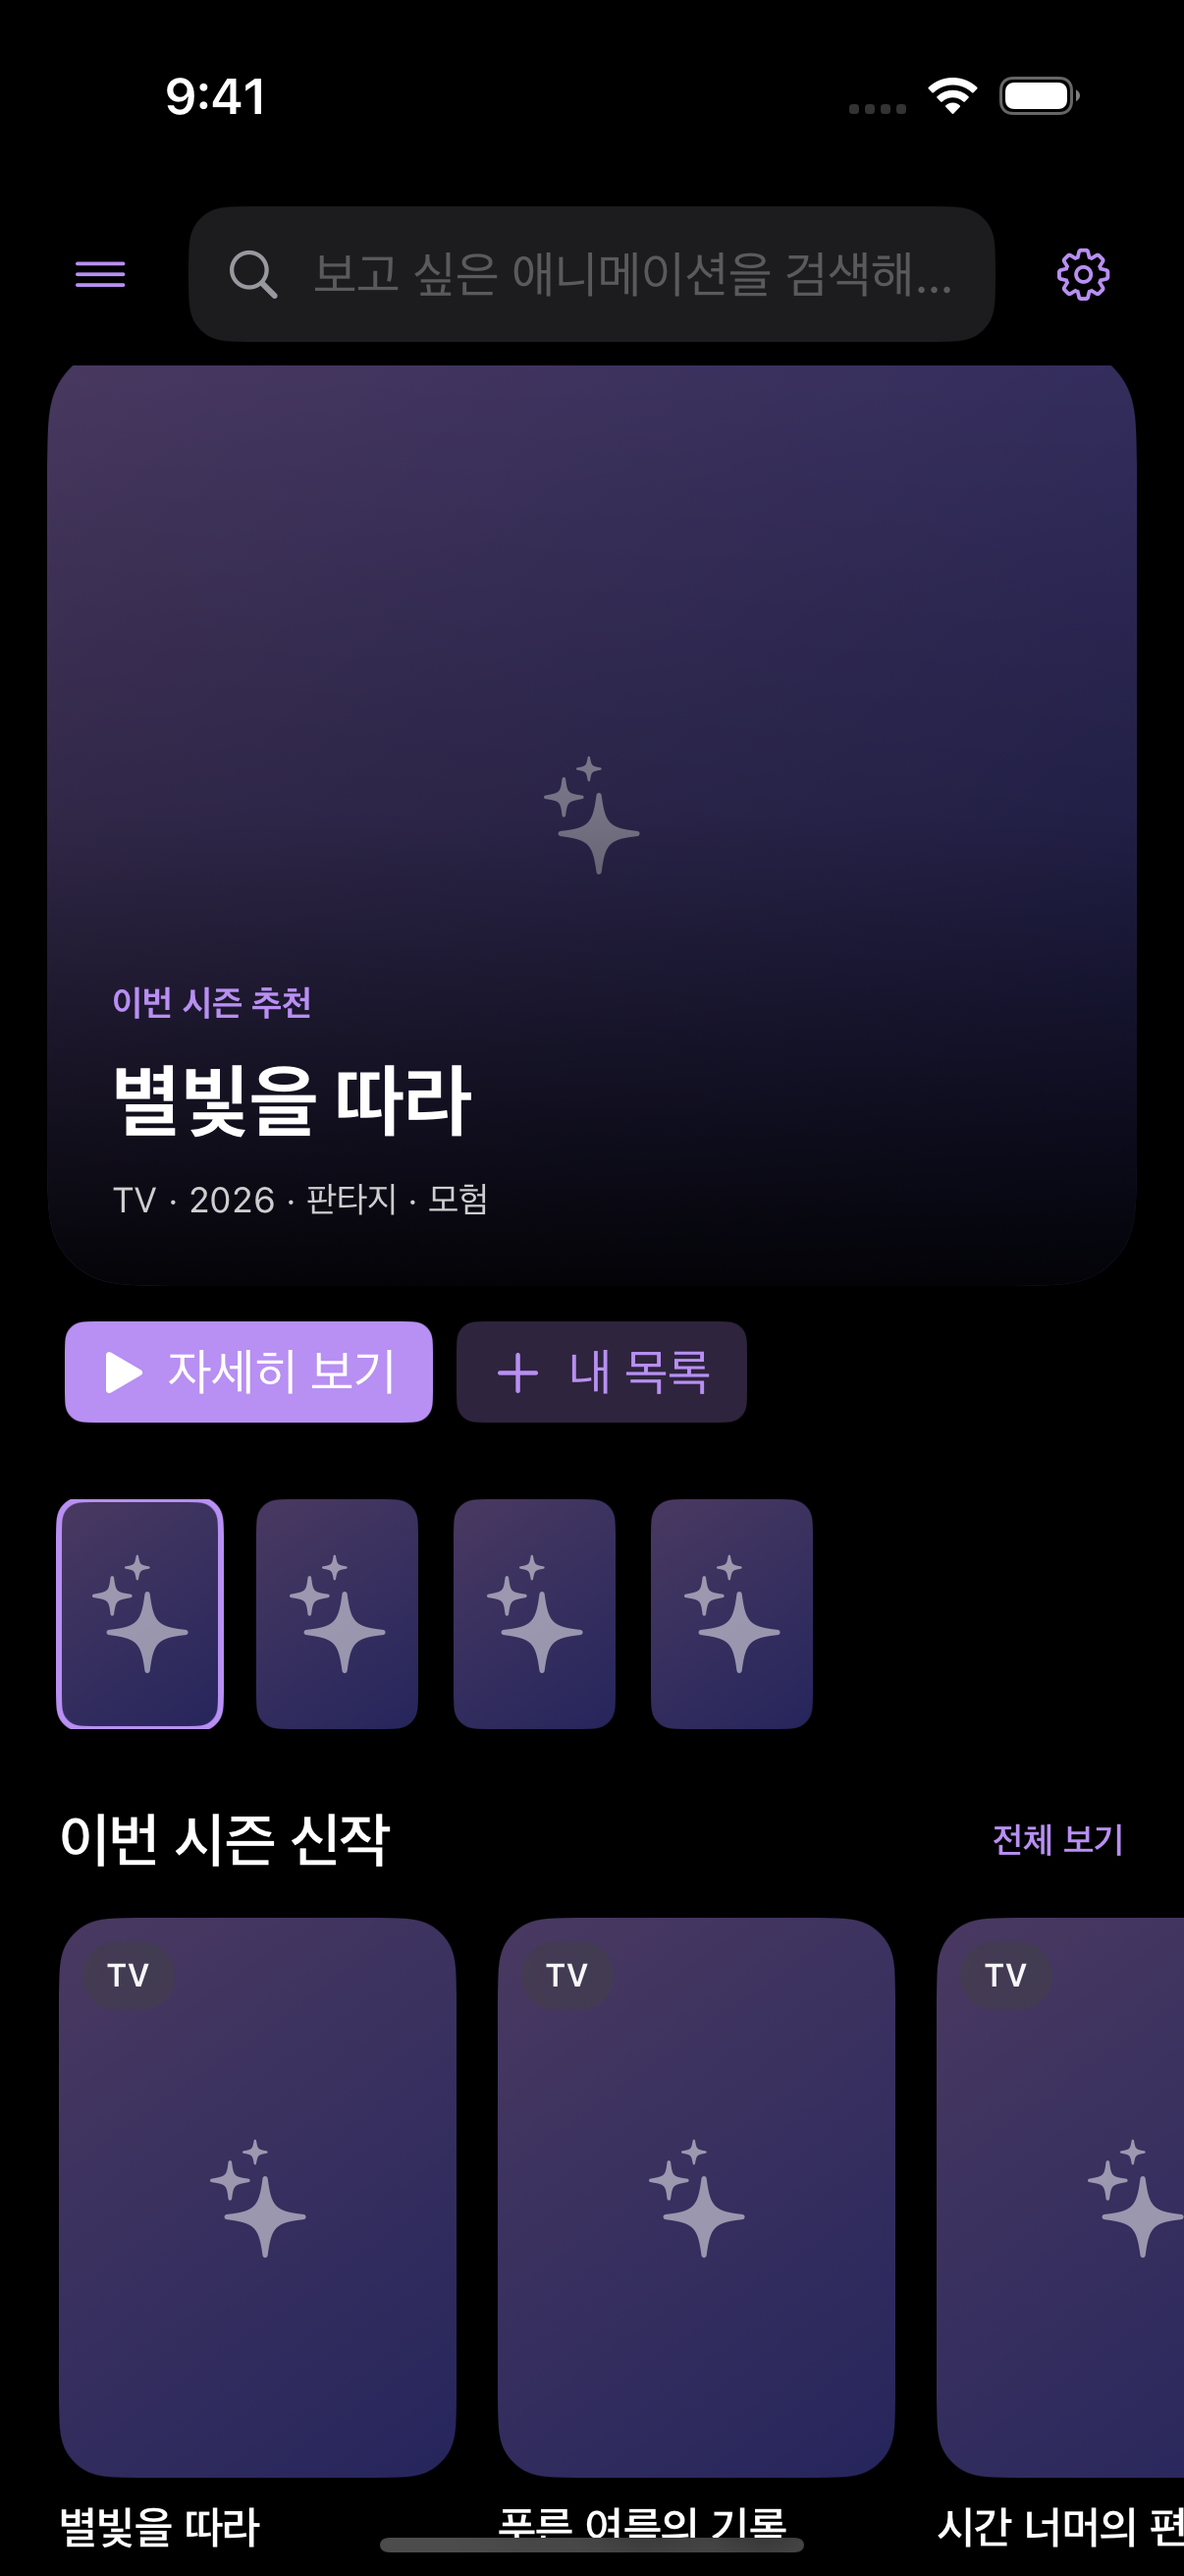
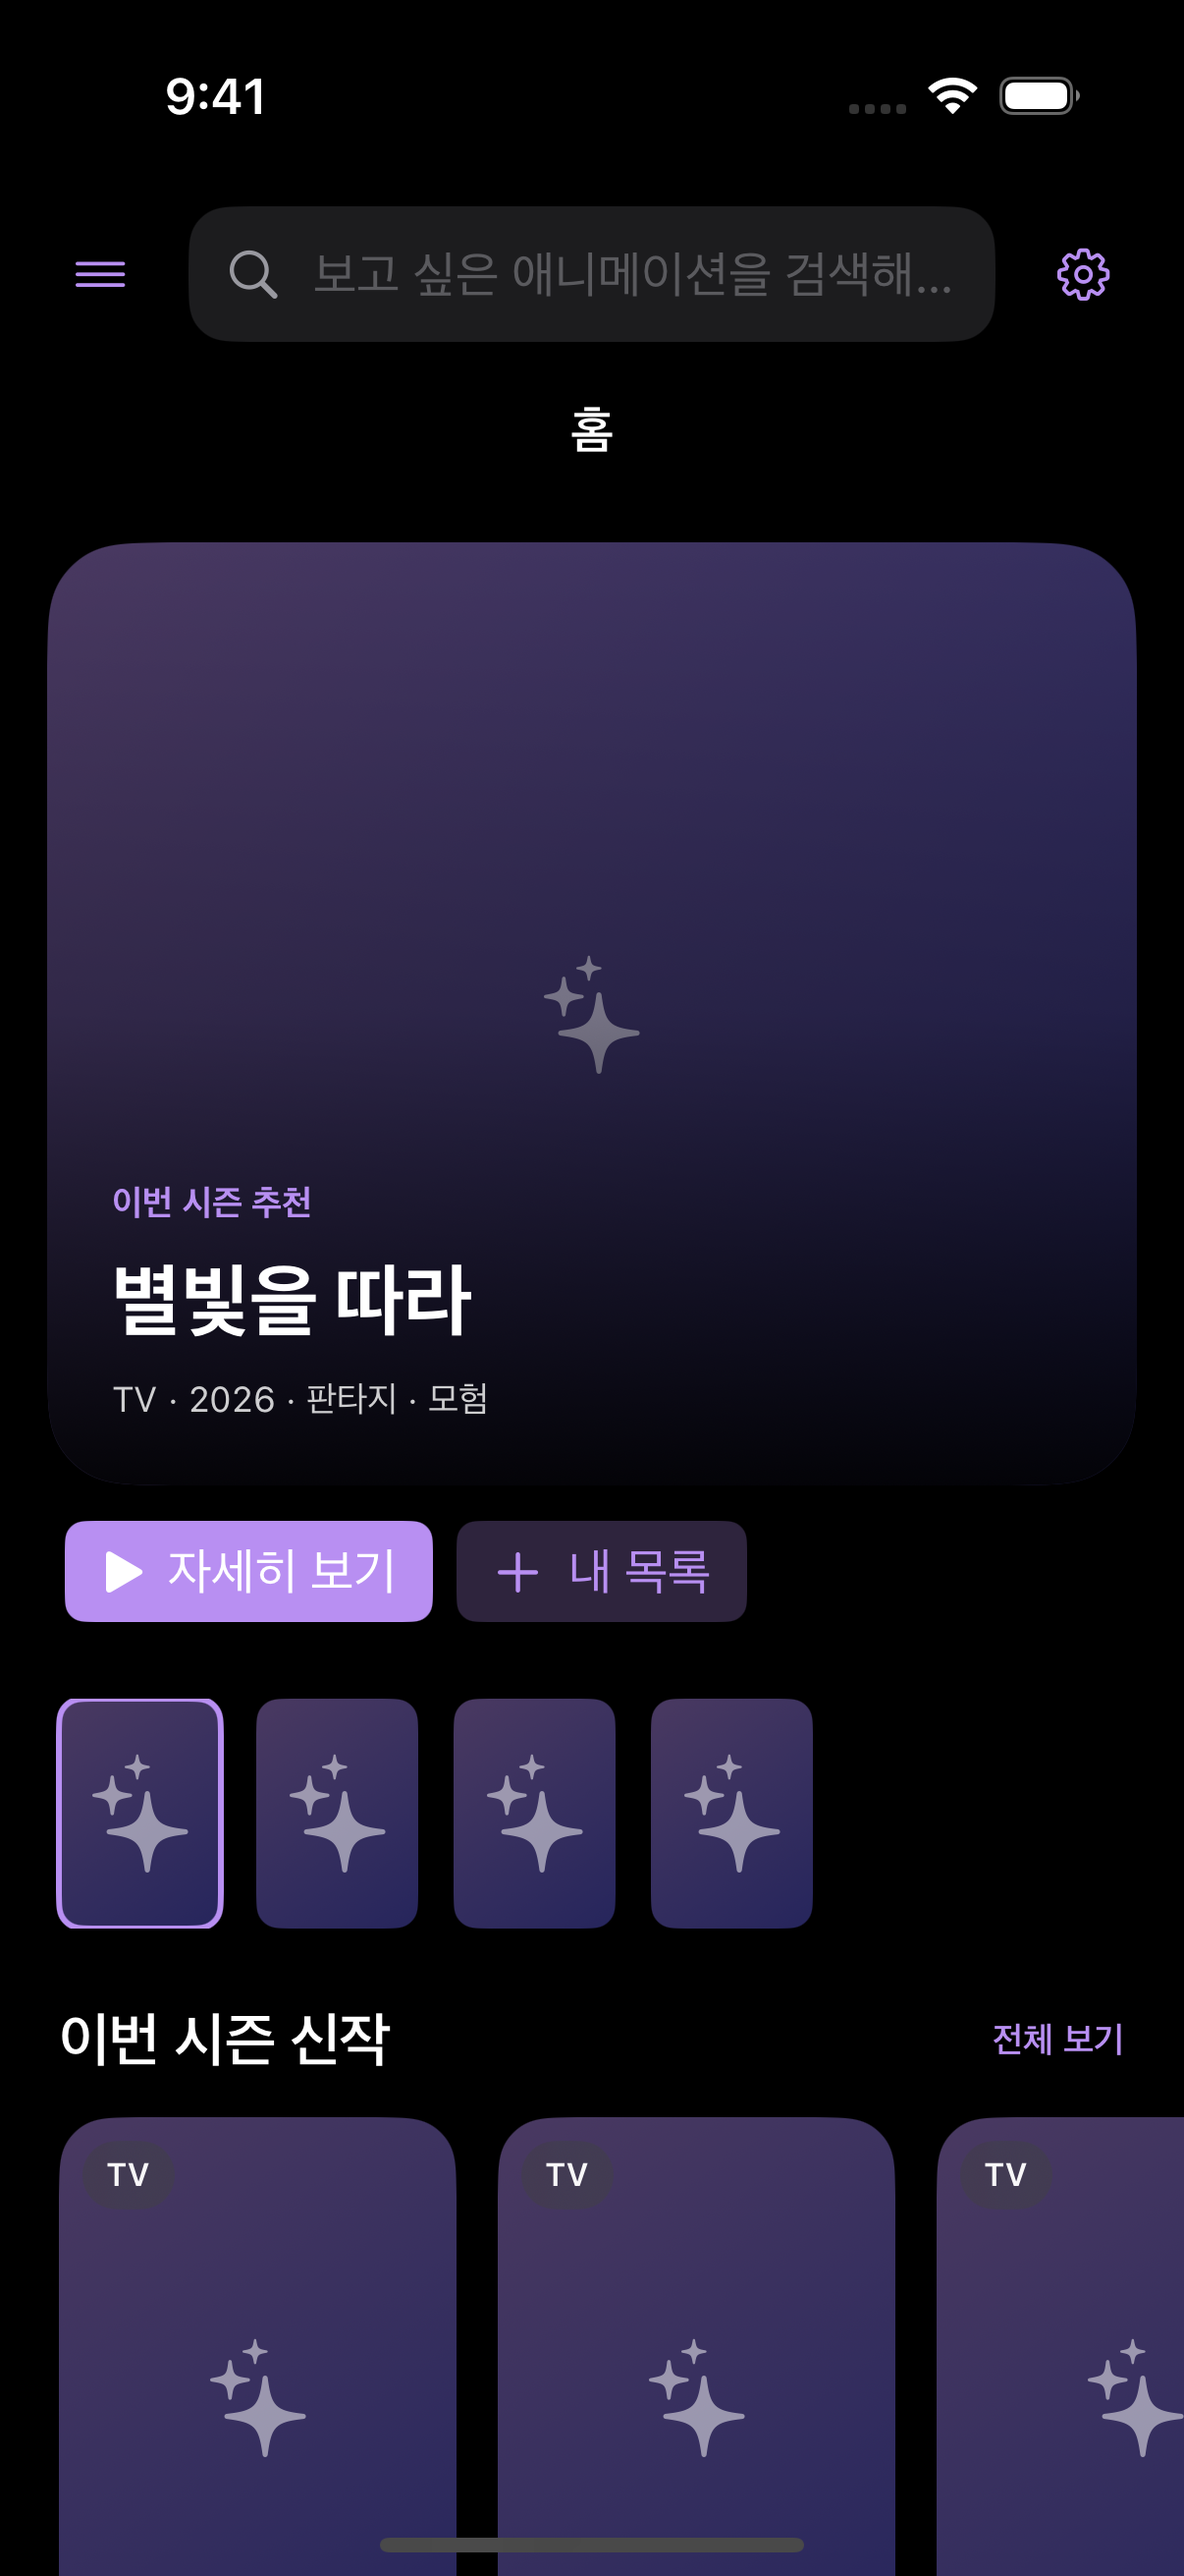
Document build 35 navigation and player verification with refreshed captures

diff --git a/README.md b/README.md
@@ -50,8 +50,13 @@ PC 창 버튼·설치 프로그램·CUDA·외장 폴더 직접 지정은 iOS의 
 <p align="center">
   <img src="docs/screenshots/workspace-ipad-dark.png" width="700" alt="iPad 홈">
 </p>
+<p align="center">
+  <img src="docs/screenshots/player-settings-ipad-dark.png" width="700" alt="iPad 플레이어 설정 패널">
+</p>
 
-캡처는 [빌드 34 검증](https://github.com/whispelyn-byte/LilacAnime-ios/actions/runs/37860678497)에서 시뮬레이터와 예시 데이터로 생성했습니다. 실제 작품 이미지나 영상 재생 캡처가 아닙니다. 플레이어는 가로 전체 화면으로 표시되며, 원본 디스플레이 캡처의 방향을 유지했습니다.
+iPad 화면 모드 예시: [맞춤](docs/screenshots/player-fit-contain-ipad-dark.png) · [채움](docs/screenshots/player-fit-cover-ipad-dark.png) · [늘림](docs/screenshots/player-fit-stretch-ipad-dark.png).
+
+캡처는 [빌드 35 검증](https://github.com/whispelyn-byte/LilacAnime-ios/actions/runs/37881121352)에서 시뮬레이터와 예시 데이터로 생성했습니다. 실제 작품 이미지나 영상 재생 캡처가 아닙니다. 플레이어는 가로 전체 화면으로 표시되며, 원본 디스플레이 캡처의 방향을 유지했습니다.
 
 ## 설치
 
@@ -89,12 +94,14 @@ https://github.com/whispelyn-byte/LilacAnime-ios/releases/latest/download/source
 ## 자막·모델·다운로드
 
 - 재생 화면의 자막 메뉴에서 제작자/파일을 선택하고, 회차에 저장한 원본·번역 자막을 다시 불러오거나 공유합니다. **다시 번역**은 부분 번역 캐시를 새로 만들고 선택한 제공자로 다시 처리합니다.
-- **설정 → 자막 자동 번역 → 로컬 GGUF 모델**에서 프리셋을 받거나 파일을 가져옵니다. 접근 제한이 있는 Hugging Face 저장소는 해당 모델의 이용 조건 동의와 사용자 토큰이 필요합니다. 대형 모델은 기기 메모리에 따라 로드하지 못할 수 있습니다.
+- **설정 → 자막 자동 번역 → 로컬 GGUF 모델**에서 프리셋을 받거나 파일을 가져옵니다. 위쪽 뒤로가기 버튼으로 번역 설정에 돌아가며, 홈·다른 메뉴를 누르면 모델 화면도 닫힙니다. 접근 제한이 있는 Hugging Face 저장소는 해당 모델의 이용 조건 동의와 사용자 토큰이 필요합니다. 대형 모델은 기기 메모리에 따라 로드하지 못할 수 있습니다.
 - **다운로드 → 다운로드 폴더 내보내기·가져오기**에서 완료한 회차를 파일 앱의 폴더로 옮깁니다. 폴더에는 영상, 자막, 폰트, OP/ED 정보와 index.json이 포함됩니다. 기존 앱 내부 파일은 내보낼 때 유지합니다.
 - **설정 → 자막 → 저장 자막·캐시 관리**에서 저장한 자막을 보존하고 임시/번역 캐시를 정리하거나 전체 자막을 명시적으로 삭제합니다.
 - **설정 → 업데이트 · 정보**에서 새 IPA를 받고 공유할 수 있습니다. 설치와 서명은 SideStore에서 진행합니다.
 
 ## 플레이어 사용
+
+새 설치는 건너뛰기 버튼 표시가 켜져 있고 OP/ED 자동 건너뛰기는 꺼져 있습니다. 이미 저장한 설정은 유지하며, 플레이어 설정의 재생 탭에서 각각 바꿀 수 있습니다.
 
 | 조작 | 동작 |
 |---|---|

diff --git a/docs/desktop-port.md b/docs/desktop-port.md
@@ -80,6 +80,7 @@ Actions는 KMP iOS 테스트·iPhone 테스트·iPhone/iPad 예시 캡처와 uns
 - 맞춤은 원본 비율을 유지하고, 채움은 비율을 유지하며 가장자리를 자르고, 늘림은 여백 없이 전체 화면으로 늘립니다. 화면 맞춤 선택 시 이전 비율 선택을 정리하고 전역 설정과 같은 값을 저장합니다.
 - Metal 영상 영역을 화면 크기로 유지하고 mpv의 video-aspect-override/keepaspect/panscan으로 영상과 자막의 비율·잘라내기를 처리합니다. 설정한 비율 때문에 채움이 무시되거나 SwiftUI 영상 영역이 이전 크기로 남던 문제를 제거했습니다.
 - 배속 3x/4x, 건너뛰기 버튼 표시 설정, 0.25초 싱크 버튼 및 TTF/OTF/TTC 파일 앱 가져오기. 기존 자막 검색·번역·저장·오디오·다운로드·Cast/PiP를 유지합니다.
+- 공통 검색창을 내비게이션 위에 배치해 로컬 AI 모델의 뒤로가기 버튼을 덮지 않도록 했습니다. 설정의 하위 경로를 관리하고 작업 공간 메뉴가 바뀌면 하위 화면도 닫습니다.
 
 ## 최근 데스크탑 변경 반영 (iOS 리비전 4)
 
